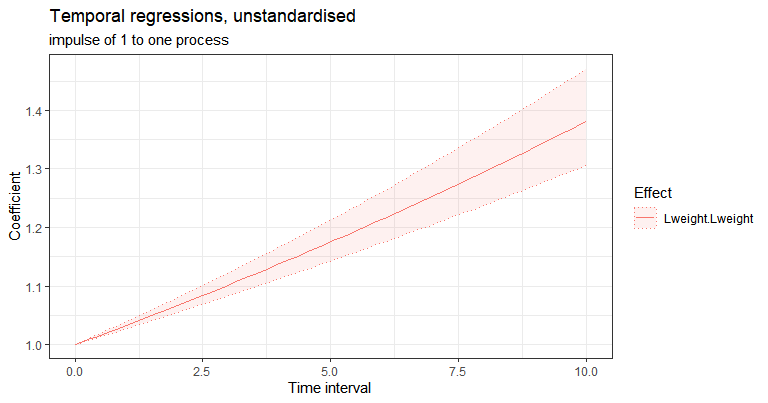
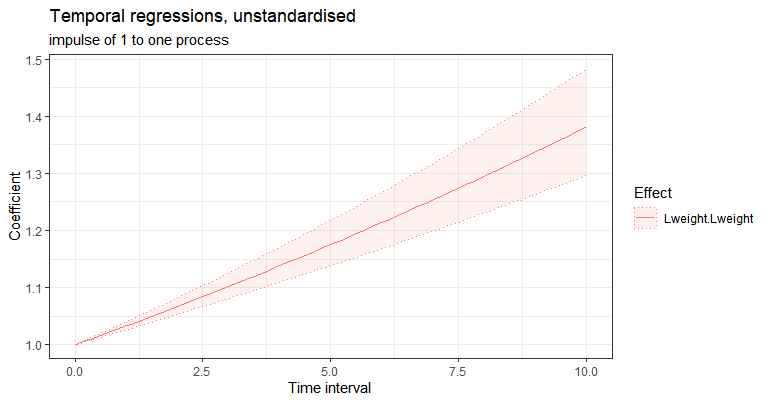
A workflow publishes the website when master moves and its documentation changed
promote-master dispatches pkgdown.yaml after moving master, since a ref moved
with GITHUB_TOKEN starts no push workflow. The workflow compares master with
the commit the live site was built from, which the gh-pages commit names, over
what the site shows (man, vignettes, NEWS.md, NEW-IN-4.md, README.md,
_pkgdown.yml, DESCRIPTION, inst/CITATION, the build script), and stops there
when nothing changed. Otherwise it installs pkgdown and rmarkdown only, runs
dev/build-site.R --publish, and gh-pages is again one commit. build-site.R
keeps a token in the remote's url out of its messages.

README.md knitted again for the site links.

diff --git a/README.md b/README.md
@@ -169,19 +169,19 @@ for easier estimation and more sensible default priors.
 ``` r
 summary(fit)$popmeans
 #>                   mean    sd   2.5%    50%  97.5%   mode
-#> T0m_yield       -0.952 0.144 -1.238 -0.950 -0.658 -0.943
-#> T0m_fat          0.159 0.198 -0.236  0.152  0.567  0.150
-#> drift_yield     -0.041 0.004 -0.050 -0.041 -0.033 -0.041
-#> drift_yield_fat -0.020 0.004 -0.028 -0.020 -0.013 -0.020
-#> drift_fat_yield -0.006 0.004 -0.013 -0.006  0.001 -0.006
-#> drift_fat       -0.015 0.004 -0.025 -0.015 -0.008 -0.015
-#> diff_yield       0.136 0.004  0.128  0.136  0.143  0.136
-#> diff_fat_yield  -0.592 0.061 -0.713 -0.590 -0.475 -0.592
-#> diff_fat         0.116 0.005  0.105  0.116  0.126  0.116
-#> mvaryield        0.328 0.003  0.322  0.328  0.335  0.328
-#> mvarfat          0.582 0.005  0.573  0.582  0.591  0.582
-#> mm_yield        -0.050 0.124 -0.290 -0.047  0.209 -0.054
-#> mm_fat           0.140 0.110 -0.077  0.141  0.360  0.142
+#> T0m_yield       -0.942 0.146 -1.232 -0.944 -0.646 -0.943
+#> T0m_fat          0.145 0.198 -0.241  0.139  0.527  0.150
+#> drift_yield     -0.041 0.004 -0.050 -0.040 -0.033 -0.041
+#> drift_yield_fat -0.020 0.004 -0.028 -0.020 -0.012 -0.020
+#> drift_fat_yield -0.006 0.003 -0.012 -0.006  0.001 -0.006
+#> drift_fat       -0.015 0.004 -0.025 -0.015 -0.009 -0.015
+#> diff_yield       0.136 0.004  0.129  0.136  0.143  0.136
+#> diff_fat_yield  -0.595 0.058 -0.703 -0.595 -0.480 -0.592
+#> diff_fat         0.116 0.005  0.106  0.115  0.125  0.116
+#> mvaryield        0.329 0.003  0.323  0.328  0.335  0.328
+#> mvarfat          0.582 0.005  0.574  0.582  0.591  0.582
+#> mm_yield        -0.059 0.124 -0.303 -0.062  0.178 -0.054
+#> mm_fat           0.148 0.112 -0.075  0.142  0.357  0.142
 ```
 
 Drift names read as `drift_<affected>_<predictor>`, so `drift_yield` is
@@ -201,10 +201,10 @@ excludes zero, while the interval for the reverse effect does not.
 ``` r
 summary(fit)$popsd
 #>            mean    sd  2.5%   50% 97.5%  mode
-#> T0m_yield 0.900 0.115 0.687 0.896 1.140 0.892
-#> T0m_fat   1.158 0.162 0.881 1.145 1.516 1.149
-#> mm_yield  0.750 0.102 0.570 0.741 0.983 0.742
-#> mm_fat    0.428 0.263 0.125 0.357 1.195 0.366
+#> T0m_yield 0.899 0.119 0.688 0.896 1.146 0.892
+#> T0m_fat   1.155 0.155 0.863 1.153 1.455 1.149
+#> mm_yield  0.750 0.107 0.559 0.742 0.980 0.742
+#> mm_fat    0.425 0.257 0.117 0.370 1.102 0.366
 ```
 
 Those are the population standard deviations of the parameters that vary
@@ -304,9 +304,9 @@ Two pieces of syntax recur everywhere and are worth unpacking:
 ``` r
 summary(f)$tipreds
 #>                  mean    sd   2.5%   50% 97.5%  mode     z
-#> tip_Diet_2_cint 0.021 0.013 -0.005 0.021 0.046 0.021 1.585
-#> tip_Diet_3_cint 0.051 0.013  0.024 0.051 0.076 0.051 3.782
-#> tip_Diet_4_cint 0.028 0.013  0.002 0.028 0.053 0.028 2.209
+#> tip_Diet_2_cint 0.021 0.013 -0.004 0.020 0.046 0.021 1.608
+#> tip_Diet_3_cint 0.050 0.013  0.025 0.050 0.077 0.051 3.840
+#> tip_Diet_4_cint 0.028 0.013  0.002 0.028 0.052 0.028 2.128
 ```
 
 Diets 3 and 4 raise the continuous intercept clearly; diet 2 is not
@@ -336,20 +336,21 @@ parameterisation.
 
 | If you want to | Read |
 |----|----|
+| Read the help pages, vignettes and changes in a browser | the [ctsem website](https://cdriveraus.github.io/ctsem/) |
 | Know what changed since ctsem 3.x | [New in 4.x](NEW-IN-4.md) |
 | Understand what a dynamic system is, and why it is worth the trouble | [Dynamic systems modeling in psychology](https://cdriver.netlify.app/post/introtodynamics/) |
 | Work an applied example end to end, from theory through simulation to fitting and checking | the [tutorial preprint](https://osf.io/preprints/psyarxiv/4q9ex_v3), with code and materials in the [OSF project](https://osf.io/xh6ue/) |
 | A second, shorter worked start | [ctsem quick start: sunspots and a damped linear oscillator](https://cdriver.netlify.app/post/ctsem-quick-start/) |
 | Get everything ctsem can say about a fit, in one folder | `ctReport(fit)` |
-| The full reference: the model, the priors, every argument | the [hierarchical manual (pdf)](https://CRAN.R-project.org/package=ctsem/vignettes/hierarchicalmanual.pdf), or `ctDocs()` in R |
-| Understand and control the uncertainty ctsem reports | [uncertainty vignette](https://github.com/cdriveraus/ctsem/blob/master/vignettes/uncertainty.qmd) |
-| Build a measurement model: multiple indicators, binary, ordinal, count or censored items | [measurement models vignette](https://github.com/cdriveraus/ctsem/blob/master/vignettes/measurement-models.qmd) |
-| Put random effects on parameters, at one or several levels | [multilevel Laplace vignette](https://github.com/cdriveraus/ctsem/blob/master/vignettes/laplace-multilevel.qmd) |
-| Model test items as indicators: item response models over time | [IRT items vignette](https://github.com/cdriveraus/ctsem/blob/master/vignettes/irt-items.qmd) |
-| Decide whether to treat a rating scale as ordinal or continuous | [ordinal or continuous vignette](https://github.com/cdriveraus/ctsem/blob/master/vignettes/ordinal-or-continuous.qmd) |
-| Find out what a fitted model is missing | [score tests vignette](https://github.com/cdriveraus/ctsem/blob/master/vignettes/score-tests.qmd) |
-| Weight subjects to represent a population | [sampling weights vignette](https://github.com/cdriveraus/ctsem/blob/master/vignettes/sampling-weights.qmd) |
-| Fit each subject separately, with the population estimate as a prior | [empirical Bayes vignette](https://CRAN.R-project.org/package=ctsem/vignettes/empirical-bayes-fitting.html) |
+| The full reference: the model, the priors, every argument | the [hierarchical manual (pdf)](https://cdriveraus.github.io/ctsem/articles/hierarchicalmanual.pdf), or `ctDocs()` in R |
+| Understand and control the uncertainty ctsem reports | [uncertainty vignette](https://cdriveraus.github.io/ctsem/articles/uncertainty.html) |
+| Build a measurement model: multiple indicators, binary, ordinal, count or censored items | [measurement models vignette](https://cdriveraus.github.io/ctsem/articles/measurement-models.html) |
+| Put random effects on parameters, at one or several levels | [multilevel Laplace vignette](https://cdriveraus.github.io/ctsem/articles/laplace-multilevel.html) |
+| Model test items as indicators: item response models over time | [IRT items vignette](https://cdriveraus.github.io/ctsem/articles/irt-items.html) |
+| Decide whether to treat a rating scale as ordinal or continuous | [ordinal or continuous vignette](https://cdriveraus.github.io/ctsem/articles/ordinal-or-continuous.html) |
+| Find out what a fitted model is missing | [score tests vignette](https://cdriveraus.github.io/ctsem/articles/score-tests.html) |
+| Weight subjects to represent a population | [sampling weights vignette](https://cdriveraus.github.io/ctsem/articles/sampling-weights.html) |
+| Fit each subject separately, with the population estimate as a prior | [empirical Bayes vignette](https://cdriveraus.github.io/ctsem/articles/empirical-bayes-fitting.html) |
 | Fit discrete time models, and know when the choice matters | [Discrete time models using ctsem?](https://cdriver.netlify.app/post/dtbivariate/) and [Representations of dynamic systems](https://cdriver.netlify.app/post/discretetime/) |
 | Handle an accelerated longitudinal or multiple group design | [Accelerated longitudinal and multiple group designs](https://cdriver.netlify.app/post/accelerated/) |
 | Understand missingness, and filtered against smoothed estimates | [Kalman filter vs smoother](https://cdriver.netlify.app/post/missingdata/) |
